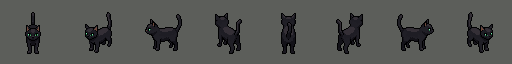
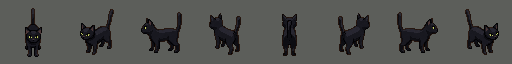
The scale table becomes content, with a test that would have caught the bug
`SCENE_SCALE` was a literal inside the catalog generator. It is content -- more
than one reader wants it -- so it lives in `art/scene-scale.json` now, per the
project's own rule that every tunable number lives in JSON. The catalog prints
it, a scene reads it, and tests assert it.

The test asserts the ORDER, not the numbers. The absolutes are stylised on
purpose -- a cat at true scale is 9px and unreadable -- so asserting them would
be asserting taste. Asserting hen < dog < pony < barn asserts the thing that was
actually broken, plus the specific failure: a pony and a bulldog are within 11px
of each other in the SOURCE and must not be once drawn.

The first version of that test failed, and the TEST was wrong. It asserted a
horse (104) was shorter than a chicken coop (92), because the two families are
in different units: a cast entry is a HEIGHT and a building entry is a WIDTH. A
coop really is about 2.5m wide and 2m tall -- wider than a horse and shorter
than one at the same time. Recorded in the JSON so the next reader does not
repeat it.

Also landed: walk cycles for wiz, tabbyCat, siameseCat, brahmaHen and
farmRooster. Fourteen of the twenty clean cast now move.

Atlas 7718 frames. 198 tests pass, up from 195.

Claude-Session: https://claude.ai/code/session_01XmJPyUWbs2Tt5c7eNKpmNV

diff --git a/tools/asset-catalog.ts b/tools/asset-catalog.ts
@@ -64,71 +64,20 @@ const CAST: [string, string][] = [
 ]
 
 /**
- * WHAT SIZE TO DRAW IT AT. This table is the most useful thing in this file.
+ * WHAT SIZE TO DRAW IT AT — read from `art/scene-scale.json`.
  *
- * THE SOURCE ART IS NOT TO SCALE, and nothing about the atlas says so. Every
- * animal is authored on the game's 32x64 grid because in the game every entity
- * IS a grid cell -- so `wiz` (a cat) is 16x42, `brahmaHen` is 26x43, `joy` (a
- * bulldog) is 29x42, `blackMule` is 28x63 and `hand` (a grown man) is 30x52.
- * Five things within a few pixels of each other that are nothing like the same
- * size in life. Drawn at 1:1 in a scene they make a lineup of identical
- * silhouettes, and that is exactly what the first title screens came out as: a
- * bulldog the size of a pony and hens the size of cats.
- *
- * The buildings are on a THIRD scale with no relation to either family:
- * `ranch.barn` is 400px wide, `ranch.coop` 128 and `ranch.windmill` 128 -- a
- * chicken coop drawn at a third of a barn, and a windmill drawn the same as the
- * coop when it should be taller than the barn is wide.
- *
- * So the numbers below are NOT canvas sizes. They are derived from what the
- * thing actually is, against one stated reference:
- *
- *     A GROWN PERSON IS 64 PIXELS TALL.  =>  36.6 px per metre.
- *
- * A barn is about 12m wide, so 440. A round bale is 1.5m, so 55. A cat is
- * about 25cm at the shoulder, which would be 9px and unreadable, so the small
- * animals are deliberately drawn ABOVE life scale -- readability wins over
- * arithmetic, and the numbers here are the stylised ones to actually use.
- * What matters is that they are CONSISTENT: a hen is smaller than a dog is
- * smaller than a pony is smaller than a barn, always, in every scene.
- *
- * Pass the number to `spriteEl(key, size)`. For the cast it is a HEIGHT; for
- * buildings and vehicles, whichever dimension the entry names.
+ * The table lives in JSON rather than here for the reason every tunable number
+ * in this project does: it is content, and more than one reader wants it. This
+ * file prints it, `tests/content.test.ts` asserts its ordering, and a scene
+ * reads it directly. The `_note` at the top of that file is the long version of
+ * why raw canvas size is the wrong number to draw anything at.
  */
-const SCENE_SCALE: Record<string, number> = {
-  // --- the cast, by height ---------------------------------------------
-  arabian: 104, blackMule: 100, beigeMule: 100, fjordPony: 96, rosie: 76,
-  farmRooster: 46, joy: 40, brahmaHen: 40, buffHen: 40, leghornHen: 36,
-  wiz: 36, ouiji: 36, tabbyCat: 36, siameseCat: 36,
-  beardedHen: 34, barredHen: 34, polishHen: 34, silkieHen: 30,
-  bantamHen: 26, chick: 16,
-  // The playable classes, and the reference every other number is against.
-  hand: 64, vet: 64, widow: 64, drifter: 64, kid: 64, agronomist: 64,
-  // --- buildings and vehicles, by WIDTH unless noted --------------------
-  'ranch.barn': 440,
-  'ranch.farmhouse': 330,
-  'ranch.bunkhouse': 256,
-  'ranch.biplane': 293,
-  'ranch.silo': 146,        // ...and ~440 TALL. A silo is as tall as a barn is wide.
-  'ranch.windmill': 100,    // ...and ~366 TALL. Taller than the barn. Never draw it square.
-  'ranch.tractor': 146,
-  'ranch.tractorRed': 128,
-  'ranch.hayWagon': 146,
-  'ranch.coop': 92,
-  'ranch.coopBroken': 80,
-  'ranch.waterTrough': 73,
-  'ranch.fenceRail': 73,
-  'ranch.fenceRailBroken': 73,
-  'ranch.well': 55,
-  'ranch.wellStone': 55,
-  'ranch.roundBale': 55,
-  'ranch.roundBaleRotted': 55,
-  'ranch.squareBales': 37,
-  'ranch.feedBin': 37,
-  'ranch.fencePost': 20,
-  'ranch.fenceCorner': 20,
-  'ranch.feedBucket': 13,
+const scaleRaw = JSON.parse(readFileSync('art/scene-scale.json', 'utf8')) as {
+  drawAt: Record<string, number>
+  tallOverrides: Record<string, number>
 }
+const SCENE_SCALE = scaleRaw.drawAt
+const SCENE_TALL = scaleRaw.tallOverrides
 
 /** Frame keys grouped by their dotted prefix. */
 const byPrefix = new Map<string, string[]>()
@@ -375,7 +324,10 @@ for (const [prefix, title, img] of groups) {
   L.push('| key | source | **draw at** |')
   L.push('|---|---|---|')
   for (const k of list) {
-    const draw = SCENE_SCALE[k] ? `**${SCENE_SCALE[k]}px**` : ''
+    const tall = SCENE_TALL[k]
+    const draw = SCENE_SCALE[k]
+      ? (tall ? `**${SCENE_SCALE[k]} wide, ${tall} tall**` : `**${SCENE_SCALE[k]}px**`)
+      : ''
     L.push(`| \`${k}\` | ${sizeOf(k)} | ${draw} |`)
   }
   L.push('')

diff --git a/tests/content.test.ts b/tests/content.test.ts
@@ -139,4 +139,88 @@ describe('card art', () => {
     }
     expect(bad).toEqual([])
   })
+
+  /**
+   * The scene scale table.
+   *
+   * This exists because the first title screens came out with a bulldog the
+   * size of a pony, and the cause was that the SOURCE ART IS NOT TO SCALE:
+   * every animal is authored on the game's 32x64 grid, so a cat is 16x42, a
+   * bulldog 29x42, a pony 25x53 and a grown man 30x52. Drawn at their own size
+   * they are a row of identical silhouettes.
+   *
+   * `art/scene-scale.json` is the correction, and the only property that has to
+   * hold is the ORDER. The absolute numbers are stylised on purpose -- a cat at
+   * true scale is 9px and unreadable -- so asserting them would be asserting
+   * taste. Asserting that a hen is smaller than a dog is smaller than a pony is
+   * smaller than a barn is asserting the thing that was actually broken.
+   */
+  it('draws the cast in an order that matches the real world', async () => {
+    const { readFileSync } = await import('node:fs')
+    const scale = JSON.parse(readFileSync('art/scene-scale.json', 'utf8')) as {
+      drawAt: Record<string, number>
+      tallOverrides: Record<string, number>
+    }
+    const at = scale.drawAt
+    const ordered = [
+      'chick', 'bantamHen', 'silkieHen', 'brahmaHen', 'farmRooster',
+      'rosie', 'fjordPony', 'arabian',
+    ]
+    for (let i = 1; i < ordered.length; i++) {
+      const small = ordered[i - 1]
+      const big = ordered[i]
+      expect(at[small], `${small} must be smaller than ${big}`).toBeLessThan(at[big])
+    }
+    // A cat is smaller than a dog is smaller than a person is smaller than a horse.
+    expect(at.wiz).toBeLessThan(at.joy)
+    expect(at.joy).toBeLessThan(at.hand)
+    expect(at.hand).toBeLessThan(at.fjordPony)
+    /*
+       Buildings are compared only among themselves, and that is not laziness.
+
+       THE TWO FAMILIES ARE IN DIFFERENT UNITS: a cast entry is a HEIGHT and a
+       building entry is a WIDTH, because that is the dimension each is
+       naturally described by. The first version of this test asserted a horse
+       (104 tall) was shorter than a chicken coop (92 wide) and failed, which
+       was the test being wrong rather than the data -- a coop really is about
+       2.5m wide and about 2m tall, so it is shorter than a horse and wider than
+       one at the same time. Comparing across the families means nothing.
+    */
+    expect(at['ranch.coop']).toBeLessThan(at['ranch.farmhouse'])
+    expect(at['ranch.farmhouse']).toBeLessThan(at['ranch.barn'])
+    expect(at['ranch.feedBucket']).toBeLessThan(at['ranch.roundBale'])
+    expect(at['ranch.roundBale']).toBeLessThan(at['ranch.tractor'])
+  })
+
+  it('never draws a sprite at its source size, because that is the bug', async () => {
+    // The specific failure: `spriteEl` snaps to whole-pixel zoom, so every one
+    // of these came back at roughly its source height whatever box was asked
+    // for. If `draw at` ever collapses back toward source size, the same row of
+    // identical silhouettes returns.
+    const { readFileSync } = await import('node:fs')
+    const at = (JSON.parse(readFileSync('art/scene-scale.json', 'utf8')) as {
+      drawAt: Record<string, number>
+    }).drawAt
+    const frames = JSON.parse(readFileSync('public/atlas.json', 'utf8')).frames as
+      Record<string, { w: number; h: number }>
+    // A pony and a bulldog are within 11px of each other in the SOURCE...
+    const ponySrc = frames['fjordPony.idle.down.0']
+    const dogSrc = frames['joy.idle.down.0']
+    expect(Math.abs(ponySrc.h - dogSrc.h)).toBeLessThan(16)
+    // ...and must not be, once drawn.
+    expect(at.fjordPony - at.joy).toBeGreaterThan(40)
+  })
+
+  it('gives every scale entry something real to scale', async () => {
+    const { readFileSync } = await import('node:fs')
+    const at = (JSON.parse(readFileSync('art/scene-scale.json', 'utf8')) as {
+      drawAt: Record<string, number>
+    }).drawAt
+    const frames = JSON.parse(readFileSync('public/atlas.json', 'utf8')).frames as
+      Record<string, unknown>
+    const missing = Object.keys(at).filter(
+      (k) => !(k in frames) && !(`${k}.idle.down.0` in frames),
+    )
+    expect(missing).toEqual([])
+  })
 })

diff --git a/docs/ASSET_CATALOG.md b/docs/ASSET_CATALOG.md
@@ -2,7 +2,7 @@
 
 **Generated by `npm run catalog`. Do not hand-edit.**
 
-7574 frame keys in `public/atlas.png`.
+7718 frame keys in `public/atlas.png`.
 
 This is not `docs/PIXELLAB_INVENTORY.md`. That one lists what the PixelLab
 account holds and answers *"have we already generated this?"*. **This one lists
@@ -97,12 +97,12 @@ with nothing to re-register. That is what makes the corruption cut cheap.
 | `blackMule` | `blackMuleBlight` | **100px tall** | 28x63 | walk (9f) | the black charge mule |
 | `beigeMule` | `beigeMuleBlight` | **100px tall** | 30x62 | walk (9f) | the beige charge mule |
 | `rosie` | `rosieBlight` | **76px tall** | 24x52 | graze (9f), walk (9f) | Rosie — small brown-and-white mule/donkey |
-| `wiz` | `wizBlight` | **36px tall** | 16x42 | *static* | Wiz — black cat, GREEN eyes |
+| `wiz` | `wizBlight` | **36px tall** | 17x49 | walk (9f) | Wiz — black cat, GREEN eyes |
 | `ouiji` | `ouijiBlight` | **36px tall** | 17x49 | *static* | Ouiji — black cat, YELLOW-GREEN eyes |
-| `tabbyCat` | `tabbyCatBlight` | **36px tall** | 25x36 | *static* | the brown tabby |
-| `siameseCat` | `siameseCatBlight` | **36px tall** | 19x42 | *static* | the white siamese |
+| `tabbyCat` | `tabbyCatBlight` | **36px tall** | 25x36 | walk (9f) | the brown tabby |
+| `siameseCat` | `siameseCatBlight` | **36px tall** | 19x42 | walk (9f) | the white siamese |
 | `joy` | `joyBlight` | **40px tall** | 29x42 | attack (9f), sit (9f), walk (9f) | Joy — tan-and-white bulldog, the level-up companion |
-| `brahmaHen` | `brahmaHenBlight` | **40px tall** | 26x43 | peck (9f) | light Brahma, feathered feet |
+| `brahmaHen` | `brahmaHenBlight` | **40px tall** | 26x43 | peck (9f), walk (9f) | light Brahma, feathered feet |
 | `beardedHen` | `beardedHenBlight` | **34px tall** | 24x38 | *static* | bearded Ameraucana, slate blue |
 | `buffHen` | `buffHenBlight` | **40px tall** | 33x46 | *static* | buff Orpington — the big one |
 | `bantamHen` | `bantamHenBlight` | **26px tall** | 20x33 | *static* | bantam — the small one |
@@ -110,7 +110,7 @@ with nothing to re-register. That is what makes the corruption cut cheap.
 | `polishHen` | `polishHenBlight` | **34px tall** | 24x39 | *static* | Polish crested — the enormous head puff |
 | `leghornHen` | `leghornHenBlight` | **36px tall** | 22x35 | *static* | white Leghorn, big floppy comb |
 | `barredHen` | `barredHenBlight` | **34px tall** | 24x41 | *static* | barred Plymouth Rock |
-| `farmRooster` | `farmRoosterBlight` | **46px tall** | 26x51 | *static* | the rooster, green-black sickle tail |
+| `farmRooster` | `farmRoosterBlight` | **46px tall** | 26x51 | walk (9f) | the rooster, green-black sickle tail |
 | `chick` | — | **16px tall** | 22x22 | *static* | the yellow chick |
 
 ## Ambient loops — the scenes live on these
@@ -152,7 +152,7 @@ Every sheet with a multi-frame clip. `clipActor(sheet, clip, dir, ...)`.
 | `blackMule` | walk (9f) |
 | `bloatedFarmhand` | walk (8f), hit (6f), death (7f) |
 | `blownSheep` | death (9f), walkHurt (9f), attack (9f), hit (7f), walk (9f) |
-| `brahmaHen` | peck (9f) |
+| `brahmaHen` | peck (9f), walk (9f) |
 | `brahmaHenBlight` | walk (9f) |
 | `buffHenBlight` | walk (9f) |
 | `donkeyCursed` | death (9f), walkHurt (9f), attack (9f), hit (7f), walk (9f) |
@@ -160,6 +160,7 @@ Every sheet with a multi-frame clip. `clipActor(sheet, clip, dir, ...)`.
 | `drifter` | walk (8f) |
 | `duckFlight` | walk (6f) |
 | `duster` | walk (6f) |
+| `farmRooster` | walk (9f) |
 | `farmhand` | walk (8f), hit (6f), death (7f) |
 | `feralDog` | death (9f), walkHurt (9f), attack (9f), hit (7f), walk (9f) |
 | `fjordPony` | graze (9f), walk (9f) |
@@ -224,13 +225,16 @@ Every sheet with a multi-frame clip. `clipActor(sheet, clip, dir, ...)`.
 | `rooster` | attack (9f), walkHurt (9f), hit (7f), death (9f), walk (9f) |
 | `rosie` | graze (9f), walk (9f) |
 | `scarecrow` | sway (9f) |
+| `siameseCat` | walk (9f) |
 | `sickHog` | attack (9f), death (9f), walkHurt (9f), hit (7f), walk (9f) |
 | `silkieHenBlight` | walk (9f) |
+| `tabbyCat` | walk (9f) |
 | `vet` | walk (8f) |
 | `wheat` | sway (9f) |
 | `whitacreBull` | attack (9f), walk (9f) |
 | `widow` | walk (8f) |
 | `windmill` | spin (9f) |
+| `wiz` | walk (9f) |
 
 ## Baked strips — for `actor()`
 
@@ -274,14 +278,14 @@ path and covers everything above; these still work.
 | `ranch.hayWagon` | 96x96 | **146px** |
 | `ranch.roundBale` | 64x64 | **55px** |
 | `ranch.roundBaleRotted` | 64x64 | **55px** |
-| `ranch.silo` | 224x400 | **146px** |
+| `ranch.silo` | 224x400 | **146 wide, 440 tall** |
 | `ranch.squareBales` | 64x32 | **37px** |
 | `ranch.tractor` | 160x112 | **146px** |
 | `ranch.tractorRed` | 96x96 | **128px** |
 | `ranch.waterTrough` | 64x64 | **73px** |
 | `ranch.well` | 96x96 | **55px** |
 | `ranch.wellStone` | 96x64 | **55px** |
-| `ranch.windmill` | 128x128 | **100px** |
+| `ranch.windmill` | 128x128 | **100 wide, 366 tall** |
 
 ## LimeZu yard furniture — purchased art, being retired. Prefer `ranch.*`. — 46
 
